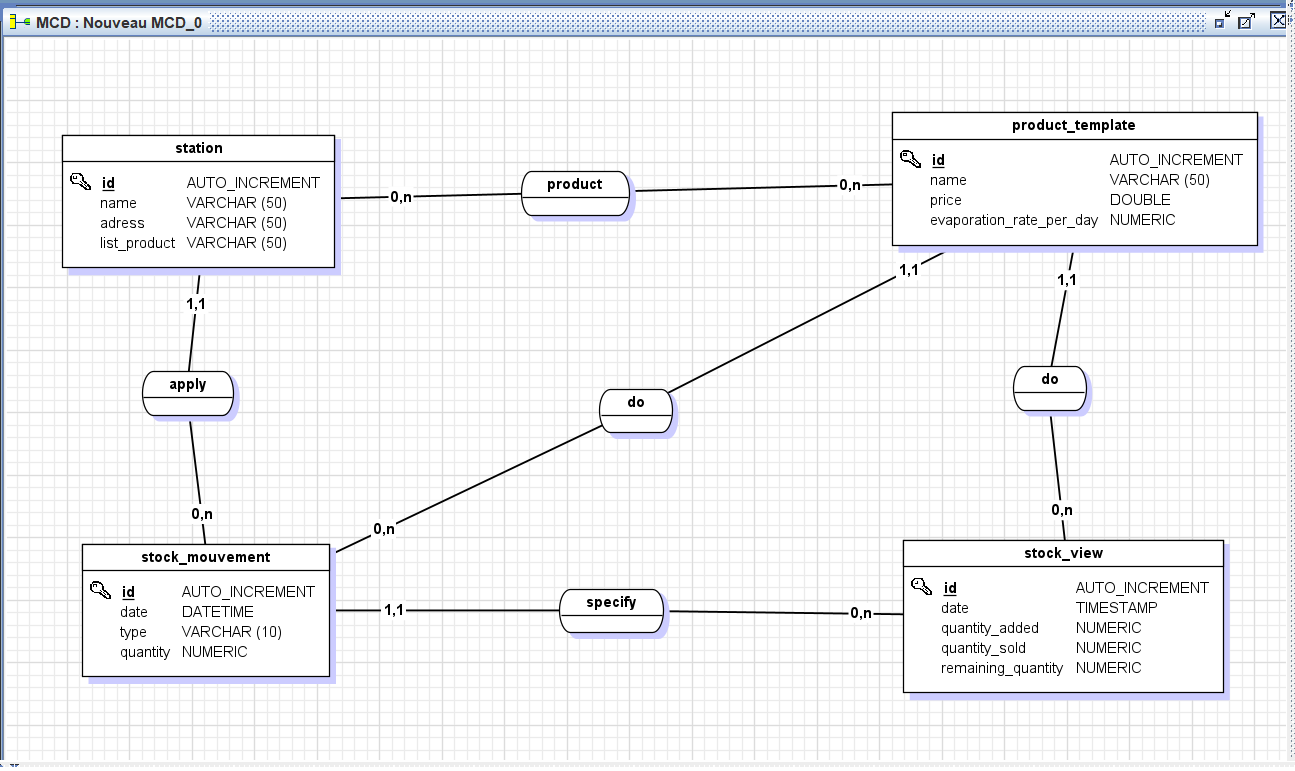
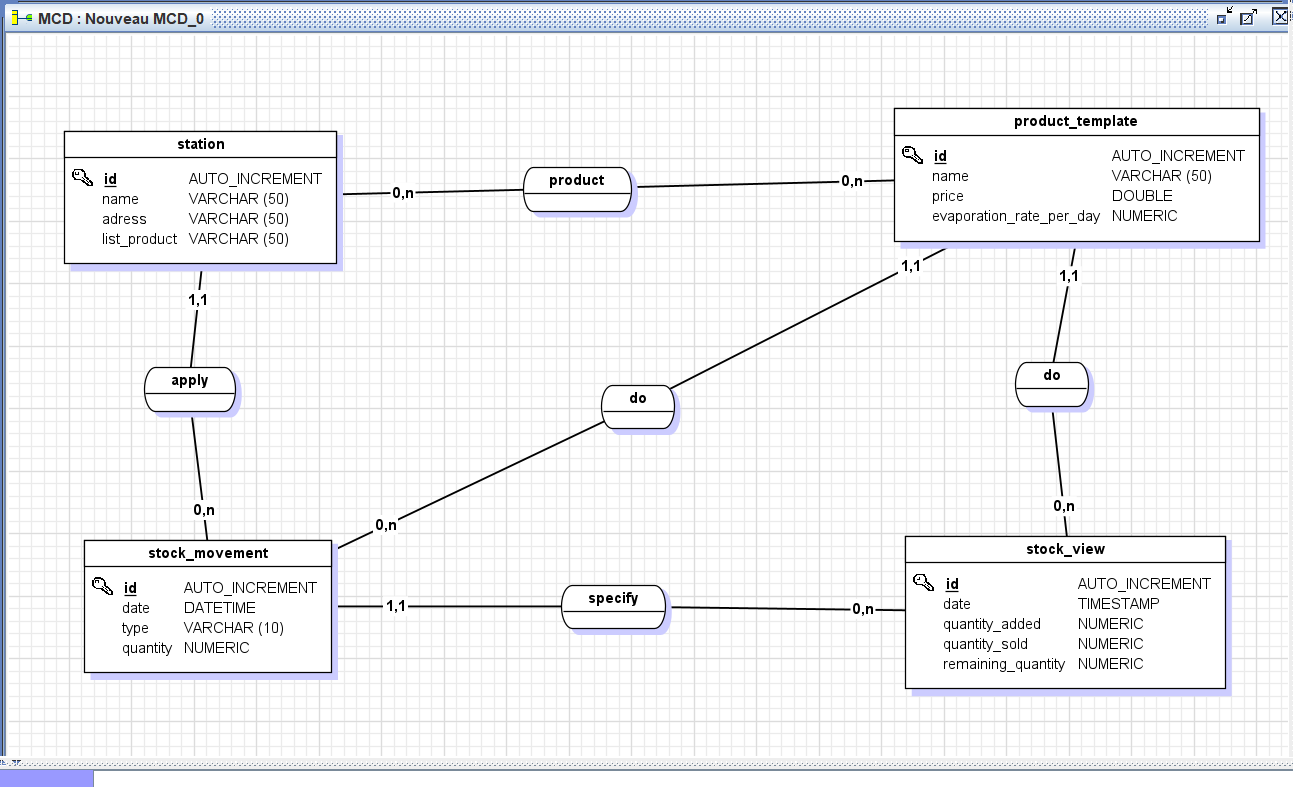
fix: change mouvement to movement

diff --git a/src/main/java/com/example/stationmanagement/repository/StockMovementRepository.java b/src/main/java/com/example/stationmanagement/repository/StockMovementRepository.java
@@ -1,0 +1,14 @@
+package com.example.stationmanagement.repository;
+import com.example.stationmanagement.model.StockMovement;
+import org.springframework.stereotype.Repository;
+
+import java.sql.SQLException;
+import java.util.List;
+
+@Repository
+public interface StockMovementRepository {
+    List<StockMovement> getAllStockMovements() throws SQLException;
+    StockMovement getStockMovementById(int id) throws SQLException;
+    StockMovement createStockMovement(StockMovement stockMovement) throws SQLException;
+    StockMovement updateStockMovement(int id, StockMovement stockMovement) throws SQLException;
+}
